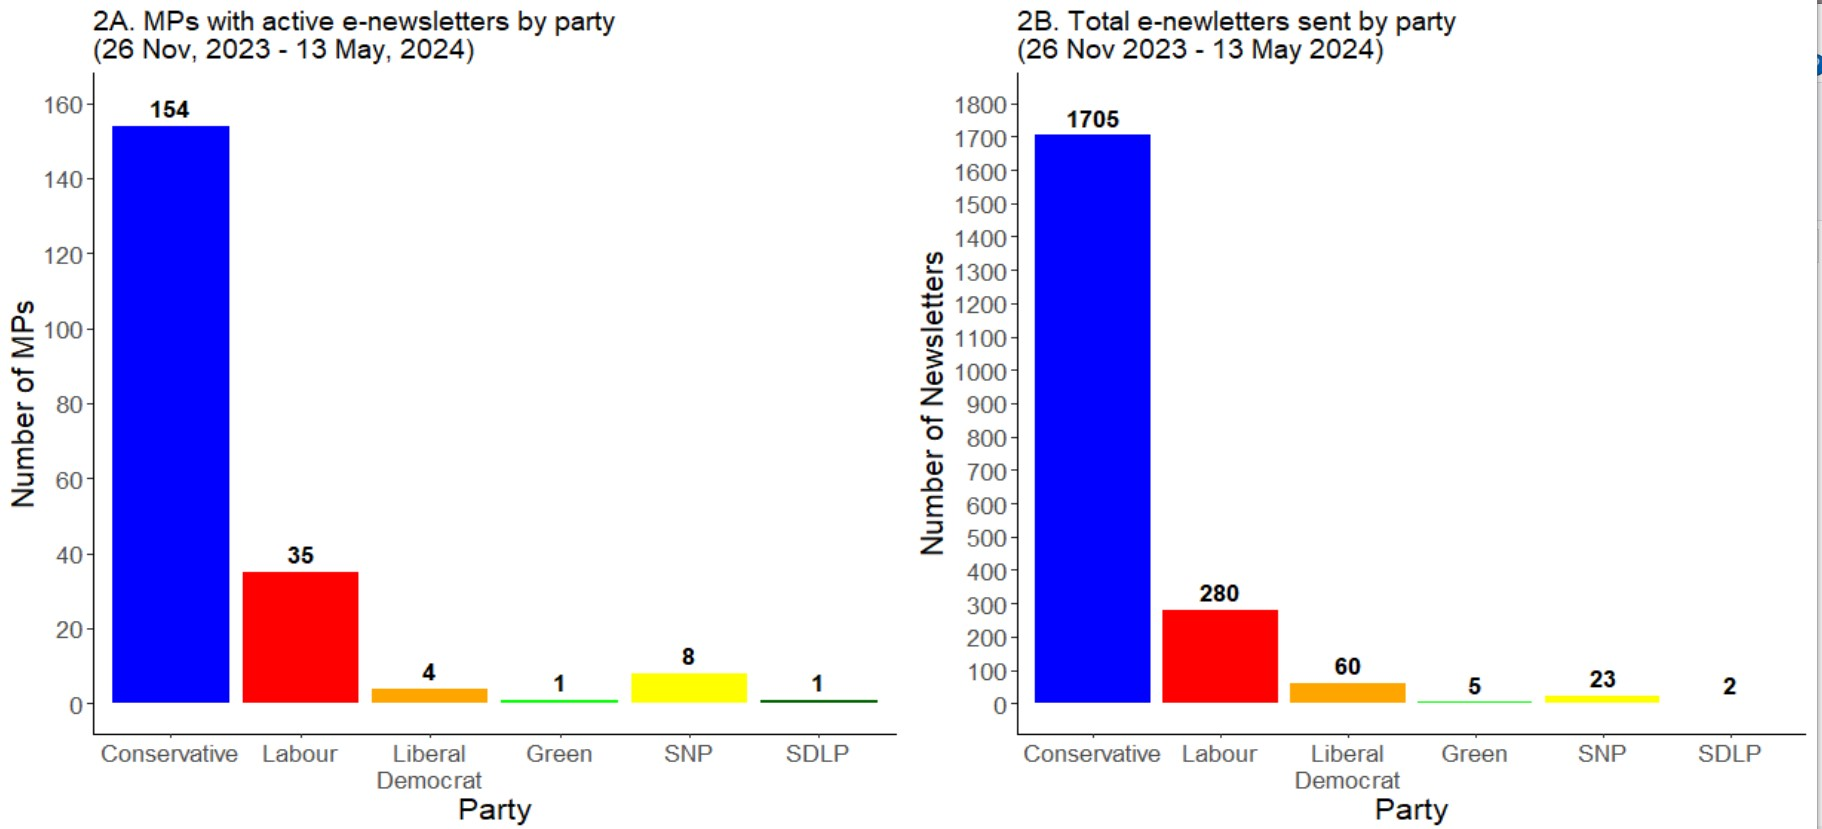
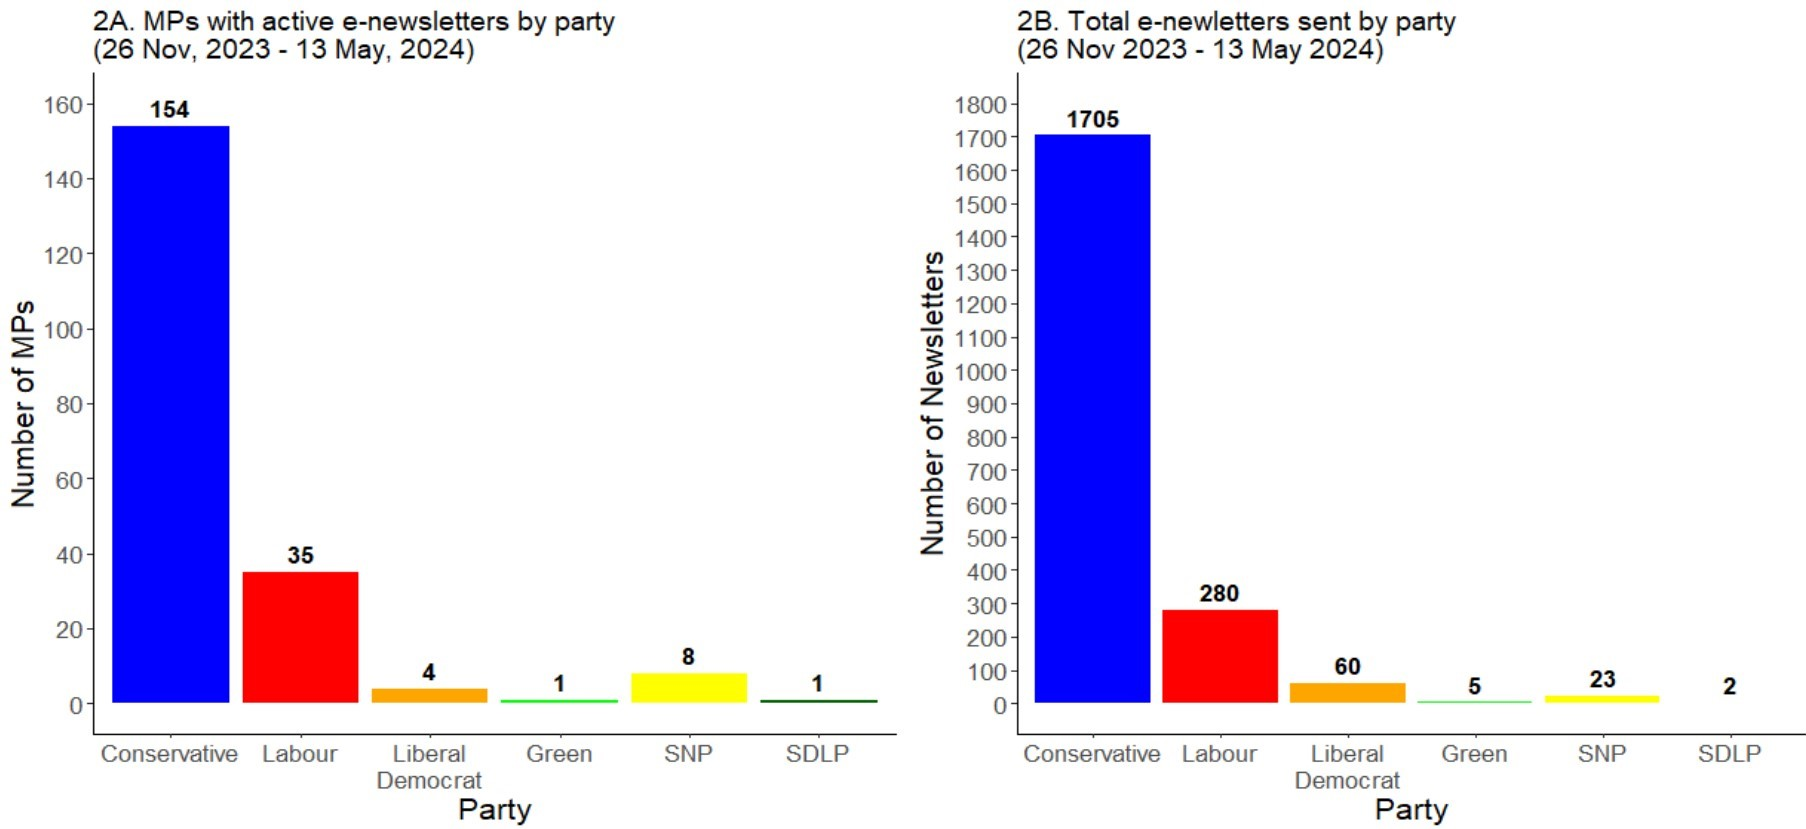
Fixed cropping issue with bar graphs
Fixed cropping issue with bar graphs

diff --git a/docs/blog/posts/2024-03-18-mp-inbox-sneak-peak/mp_inbox_sneak_peek.html b/docs/blog/posts/2024-03-18-mp-inbox-sneak-peak/mp_inbox_sneak_peek.html
@@ -7,7 +7,7 @@
 <meta name="viewport" content="width=device-width, initial-scale=1.0, user-scalable=yes">
 
 <meta name="author" content="Adam L. Ozer">
-<meta name="dcterms.date" content="2024-05-08">
+<meta name="dcterms.date" content="2024-05-13">
 
 <title>Adam L. Ozer, Ph.D.&nbsp;- The UK MP Inbox - A Sneak Peek</title>
 <style>
@@ -155,7 +155,7 @@ ul.task-list li input[type="checkbox"] {
     <div>
     <div class="quarto-title-meta-heading">Published</div>
     <div class="quarto-title-meta-contents">
-      <p class="date">May 8, 2024</p>
+      <p class="date">May 13, 2024</p>
     </div>
   </div>
   
@@ -187,16 +187,16 @@ ul.task-list li input[type="checkbox"] {
 </section>
 <section id="how-many-mps-are-consistently-using-e-newsletters" class="level2">
 <h2 class="anchored" data-anchor-id="how-many-mps-are-consistently-using-e-newsletters">How many MPs are consistently using e-newsletters?</h2>
-<p>Perhaps unsurprisingly, some MP offices appear to be a bit more tech saavy than others, which is reflected in their e-newsletter usage. Of the 650+<a href="#fn3" class="footnote-ref" id="fnref3" role="doc-noteref"><sup>3</sup></a> MPs, roughly 91.7% have a functioning website.<a href="#fn4" class="footnote-ref" id="fnref4" role="doc-noteref"><sup>4</sup></a> A total of 400 (61.3%) have some form of e-newsletter sign up.<a href="#fn5" class="footnote-ref" id="fnref5" role="doc-noteref"><sup>5</sup></a> Since late November 2023, 200 MPs (30.6% of all MPs; 50.0% of MPs with e-newsletter sign ups) have sent at least one newsletter, with a total of 1840 newsletters received as 06 May, 2024. Notably, among the past two leaders of the Conservative and Labour parties, only Liz Truss has sent any e-newsletters since the start of November 2023.</p>
+<p>Perhaps unsurprisingly, some MP offices appear to be a bit more tech saavy than others, which is reflected in their e-newsletter usage. Of the 650+<a href="#fn3" class="footnote-ref" id="fnref3" role="doc-noteref"><sup>3</sup></a> MPs, roughly 91.7% have a functioning website.<a href="#fn4" class="footnote-ref" id="fnref4" role="doc-noteref"><sup>4</sup></a> A total of 400 (61.3%) have some form of e-newsletter sign up.<a href="#fn5" class="footnote-ref" id="fnref5" role="doc-noteref"><sup>5</sup></a> Since late November 2023, 200 MPs (30.6% of all MPs; 50.0% of MPs with e-newsletter sign ups) have sent at least one newsletter, with a total of 1899 newsletters received as 13 May, 2024. Notably, among the past two leaders of the Conservative and Labour parties, only Liz Truss has sent any e-newsletters since the start of November 2023.</p>
 <center>
 <div class="quarto-figure quarto-figure-center">
 <figure class="figure">
 <p><img src="blog_1_per_mp_hist.jpg" class="img-fluid figure-img" style="width:85.0%"></p>
-<figcaption>Figure 1. Total e-newsletters sent per MP (among MPs active e-newsletters; n = 1840)</figcaption>
+<figcaption>Figure 1. Total e-newsletters sent per MP (among MPs active e-newsletters; n = 1899)</figcaption>
 </figure>
 </div>
 </center>
-<p><strong>Figure 1</strong> presents the distribution of total e-newsletters sent per MP from 26 November, 2023 to 06 May, 2024. The majority of MPs with active e-newsletters tend to send about one per month. These patterns are reflected in the rightward skew of this distribution, concentrating around one e-newsletter per month per MP (mean = 9; median = 6; mode = 6). A smaller share of MPs tend to send out e-newsletters on a roughly weekly or bi-weekly basis (for context, the time period here covers just over 23 weeks). A handful of MPs send out e-newsletters more frequently still. However, among all MPs, one serves as a true outlier: John Redwood (Wokingham, Conservative), who sends multiple updates per day, and is the proverbial king of e-newsletter usage to date.</p>
+<p><strong>Figure 1</strong> presents the distribution of total e-newsletters sent per MP from 26 November, 2023 to 13 May, 2024. The majority of MPs with active e-newsletters tend to send about one per month. These patterns are reflected in the rightward skew of this distribution, concentrating around one e-newsletter per month per MP (mean = 9.5; median = 6). A smaller share of MPs tend to send out e-newsletters on a roughly weekly or bi-weekly basis (for context, the time period here covers just over 23 weeks). A handful of MPs send out e-newsletters more frequently still. However, among all MPs, one serves as a true outlier: John Redwood (Wokingham, Conservative), who sends multiple updates per day, and is the proverbial king of e-newsletter usage to date.</p>
 <p>This leads to an interesting question: why don’t more MPs utilise e-newsletters? After all, maintaining an active e-newsletter is extremely low cost relative to other forms of communication. This fact does not appear to be lost on U.S. legislators, who make much more frequent use of e-newsletters. I plan to explore this fact and this question in a future blog post. Yet, for the purposes of building intrigue, I would highlight three potential suspects: 1) office staff funding &amp; parliamentary expense rules, 2) party structure and incentives, and 3) a potential lack of perceived utility among the MPs (driven by a myriad of potential causes). For the moment, let us dip our toes into suspect #2 and take a very brief descriptive look at some party-based patterns.</p>
 </section>
 <section id="what-trends-do-we-see-among-the-parties" class="level2">
@@ -221,7 +221,7 @@ ul.task-list li input[type="checkbox"] {
 </div>
 </center>
 <p>The data reveal two basic trends of note. First, MPs tend to schedule their e-newsletters to be delivered towards the beginning or end of the month, resulting in the large spikes seen in the plot. The Christmas/New Years period is the major exception in this pattern. Second, while the rate of incoming e-newsletters from Labour appears to be stable, the rate of Conservative e-newsletters had been on a slight decline prior to the local elections in May. Among Conservative MPs, both the top and bottom e-newsletter rate weeks declined from February to March and from March to April, well before the pre-election period of sensitivity was imposed on 11 April. Finally, we see a substantial spike in the number of Conservative e-newsletters the week of the local elections, driven largely by messages reminding constituents to vote. Interestingly, there does not seem to be a large corresponding spike in Labour e-newsletters the week of the elections.</p>
-<p>Unfortunately, this brief descriptive look does not allow for a good assessment of causality (assuming there is a strong causal mechanism at play). Yet, it is not too much of a stretch to hypothesise that this pattern is influenced by the news cycle earlier this year and electoral incentives among Conservative MPs seeking to minimise local losses. It will surely be interesting to see how these patterns develop as the general election approaches.</p>
+<p>Unfortunately, this brief descriptive look does not allow for a good assessment of causality (assuming there is a strong causal mechanism at play). Yet, it is not too much of a stretch to hypothesise that this pattern is influenced by the news cycle earlier this year and electoral incentives among Conservative MPs seeking to minimise local losses. It will be interesting to see how these patterns develop as the general election approaches.</p>
 </section>
 <section id="what-is-next" class="level2">
 <h2 class="anchored" data-anchor-id="what-is-next">What is next?</h2>
@@ -245,7 +245,7 @@ ul.task-list li input[type="checkbox"] {
 </ol>
 </section><section class="quarto-appendix-contents" id="quarto-reuse"><h2 class="anchored quarto-appendix-heading">Reuse</h2><div class="quarto-appendix-contents"><div><a rel="license" href="https://creativecommons.org/licenses/by-sa/4.0/">CC BY-SA 4.0</a></div></div></section><section class="quarto-appendix-contents" id="quarto-citation"><h2 class="anchored quarto-appendix-heading">Citation</h2><div><div class="quarto-appendix-secondary-label">For attribution, please cite this work as:</div><div id="ref-l. ozer2024" class="csl-entry quarto-appendix-citeas" role="listitem">
 L. Ozer, Adam. 2024. <span>“The UK MP Inbox - A Sneak Peek.”</span> May
-8, 2024. <a href="https://adamlozer.github.io/blog/posts/2024-03-18-mp-inbox-sneak-peak/">https://adamlozer.github.io/blog/posts/2024-03-18-mp-inbox-sneak-peak/</a>.
+13, 2024. <a href="https://adamlozer.github.io/blog/posts/2024-03-18-mp-inbox-sneak-peak/">https://adamlozer.github.io/blog/posts/2024-03-18-mp-inbox-sneak-peak/</a>.
 </div></div></section></div></main> <!-- /main -->
 <script id="quarto-html-after-body" type="application/javascript">
 window.document.addEventListener("DOMContentLoaded", function (event) {

diff --git a/docs/blog/index.html b/docs/blog/index.html
@@ -232,7 +232,7 @@ window.Quarto = {
     </div>
 </div>
 <div class="list quarto-listing-default">
-<div class="quarto-post image-right" data-index="0" data-categories="politics,data science,MP Inbox" data-listing-date-sort="1715122800000" data-listing-file-modified-sort="1715239711514" data-listing-date-modified-sort="NaN" data-listing-reading-time-sort="10" data-listing-word-count-sort="1823">
+<div class="quarto-post image-right" data-index="0" data-categories="politics,data science,MP Inbox" data-listing-date-sort="1715554800000" data-listing-file-modified-sort="1715598197793" data-listing-date-modified-sort="NaN" data-listing-reading-time-sort="10" data-listing-word-count-sort="1819">
 <div class="thumbnail">
 <p><a href="../blog/posts/2024-03-18-mp-inbox-sneak-peak/mp_inbox_sneak_peek.html" class="no-external"></a></p><a href="../blog/posts/2024-03-18-mp-inbox-sneak-peak/mp_inbox_sneak_peek.html" class="no-external">
 <p><img src="../blog/posts/2024-03-18-mp-inbox-sneak-peak/blog_1_front_end_screenshot.jpg" class="thumbnail-image"></p>
@@ -260,7 +260,7 @@ MP Inbox
 <div class="metadata">
 <a href="../blog/posts/2024-03-18-mp-inbox-sneak-peak/mp_inbox_sneak_peek.html" class="no-external">
 <div class="listing-date">
-May 8, 2024
+May 13, 2024
 </div>
 </a>
 </div>
